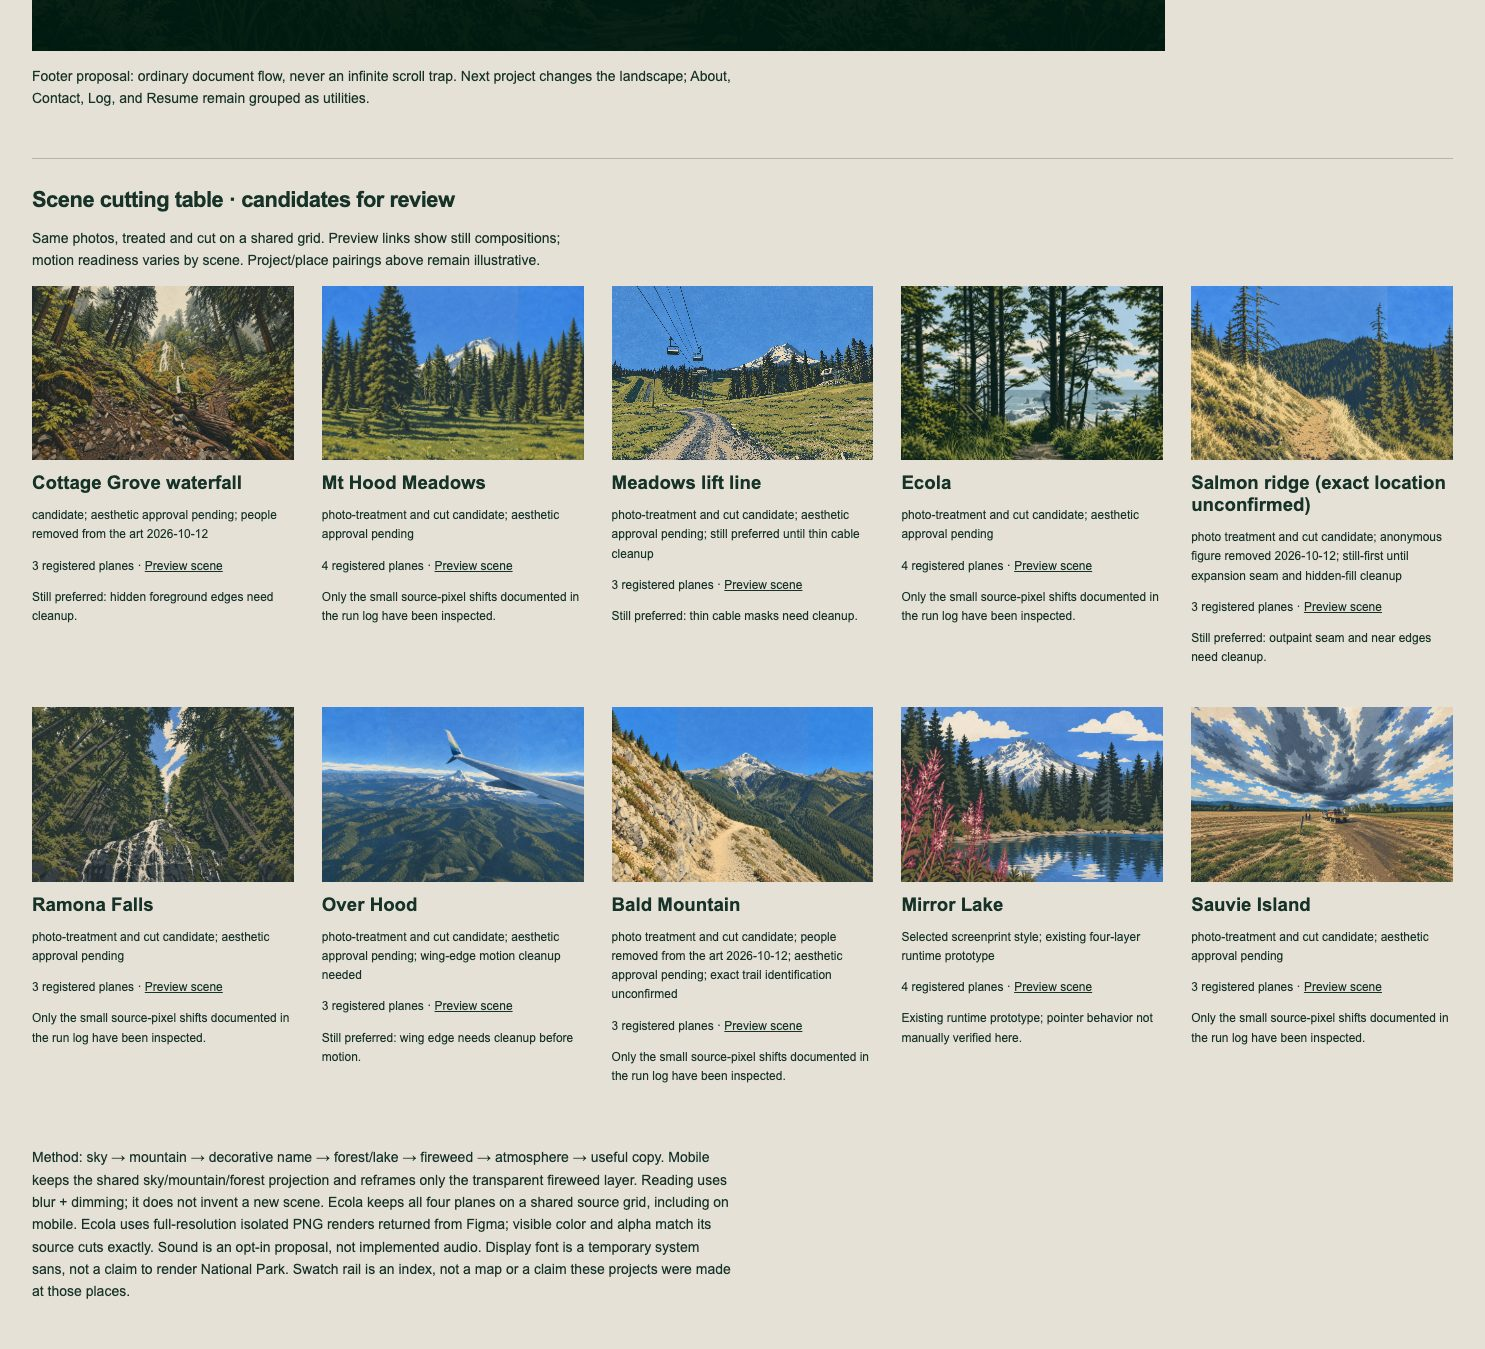
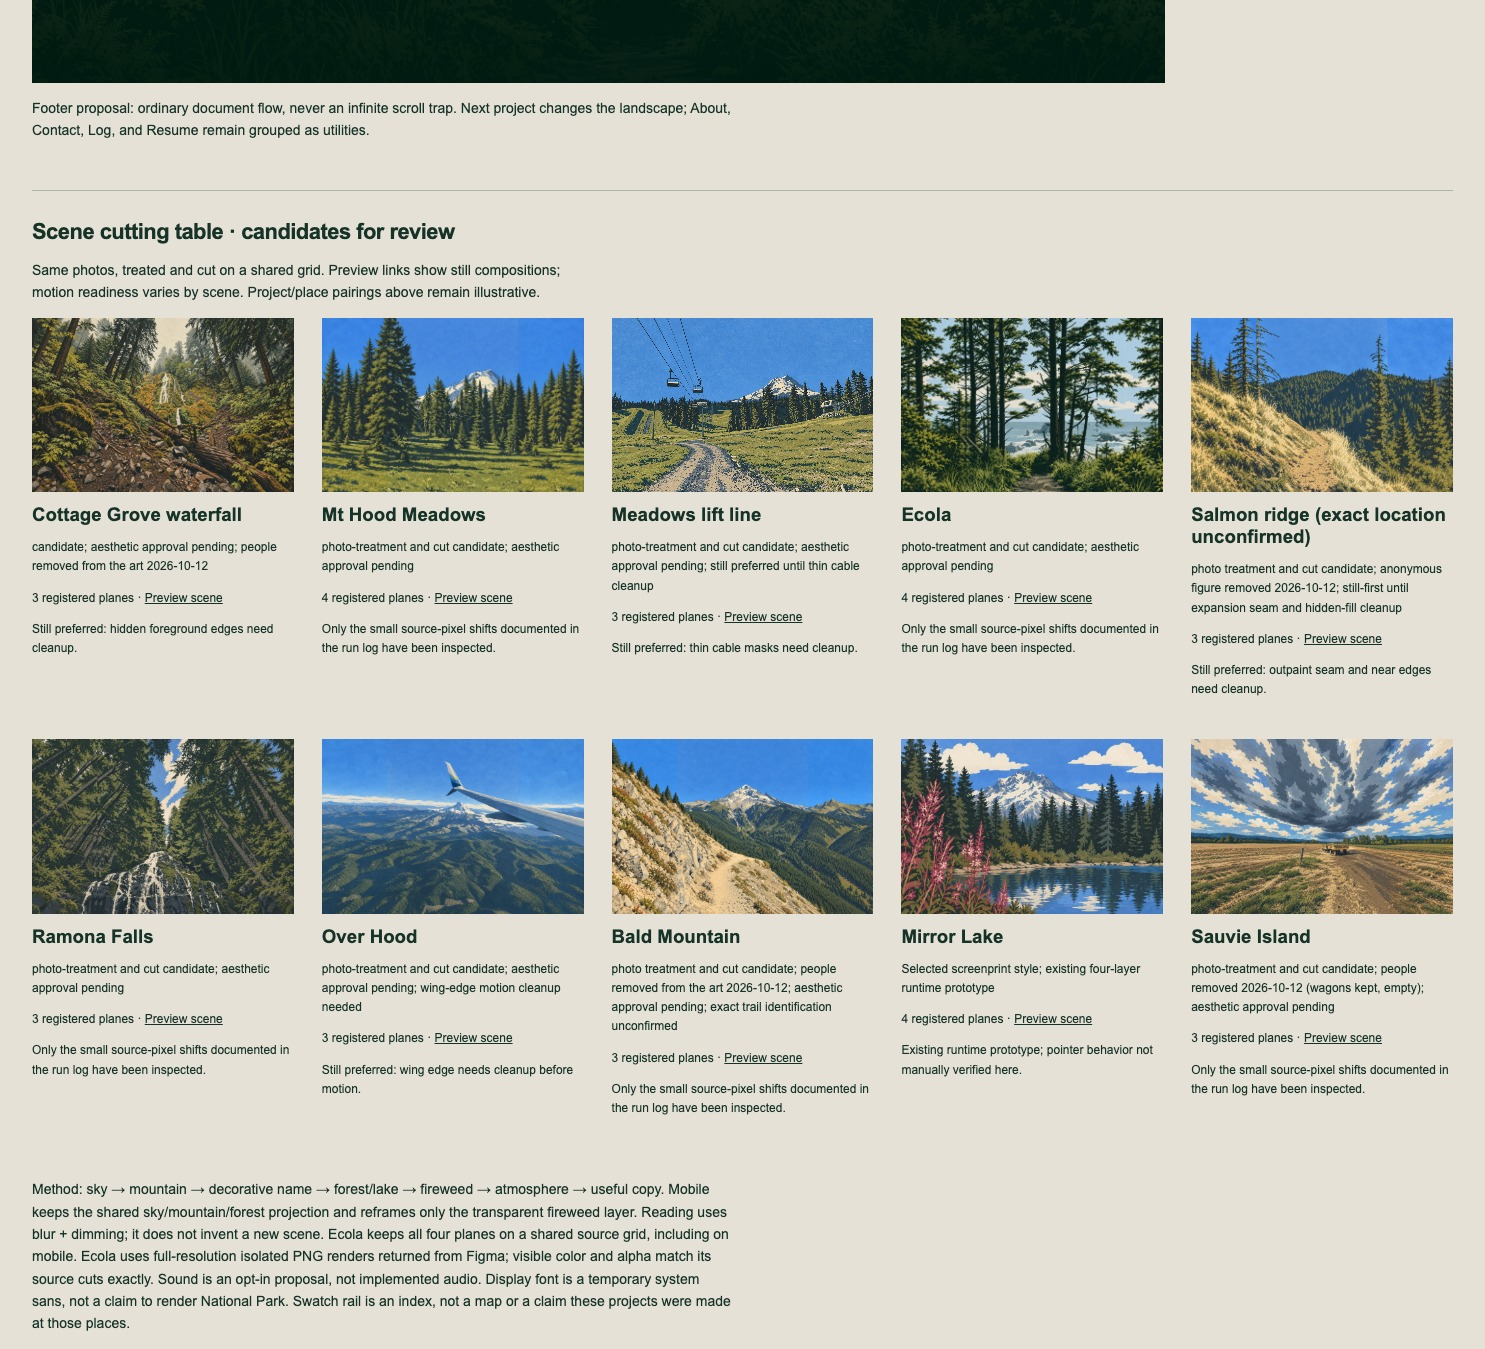
Rewrite exploration: people removed from Sauvie (wagons kept, empty); re-cut, Figma round trip exact; catalog and sheets merged

diff --git a/docs/rewrite/prototypes/tools/cut-sauvie.py b/docs/rewrite/prototypes/tools/cut-sauvie.py
@@ -3,12 +3,65 @@
 
 Run: python3 tools/cut-sauvie.py public/gen/layers/sauvie
 Restack equality validates color/coverage, not segmentation quality.
+
+People removal (2026-10-12), two steps that need numpy + scipy (use `uv run --with pillow --with numpy --with scipy`):
+
+  --rebuild-master <backup-dir>
+      The raw image edit nofigure-raw-v1.png (whole-frame re-render, riders and standing figures removed) is
+      blended into the locked portrait only inside a feathered patch around the former people; everything outside the
+      patch stays pixel-identical to <backup-dir>/master.png (the pre-removal portrait, kept outside the repo).
+      The new portrait is pasted into the SAME center bounds of <backup-dir>/master-wide.png (outpainted sides
+      untouched) and saved as master.png / master-wide.png.
+
+  (no flag)
+      Cut planes from master-wide.png. Mattes: land-raw.png and near-raw.png (made from the pre-removal wide master)
+      are kept everywhere except the former-people zone, where mattes regenerated from the people-free wide master
+      (land-raw-v2.png, near-raw-v2.png) are used if present.
 """
 from pathlib import Path
 from PIL import Image, ImageChops, ImageFilter, ImageOps, ImageStat
 import hashlib, json, subprocess, sys
 
-p=Path(sys.argv[1]); master=Image.open(p/'master-wide.png').convert('RGB'); size=master.size; w,h=size
+p=Path(sys.argv[1]); BOUNDS=(543,0,1629,1448)
+# Former-people zone in wide-master source px: the portrait patch bbox (x 332-808, y 766-1014) shifted by the
+# 543 px center offset, plus margin (riders on the wagons and the standing group left of them).
+ZONE=(850,730,1400,1040)
+
+if '--rebuild-master' in sys.argv:
+    import numpy as np
+    from scipy import ndimage as ndi
+    b4=Path(sys.argv[sys.argv.index('--rebuild-master')+1])
+    A=Image.open(b4/'master.png').convert('RGB'); B=Image.open(p/'nofigure-raw-v1.png').convert('RGB'); OW=Image.open(b4/'master-wide.png').convert('RGB')
+    assert A.size==B.size==(1086,1448)
+    assert np.abs(np.array(OW.crop(BOUNDS)).astype(int)-np.array(A).astype(int)).max()==0
+    a=np.array(A).astype(float); b=np.array(B).astype(float); d=np.abs(a-b).mean(2)
+    # The edit re-renders the whole frame (ground grain drifts), so the change map is only trusted for the two
+    # components that sit where the people were: riders on the wagons and the standing group.
+    m=ndi.binary_opening(ndi.uniform_filter(d,25)>22,iterations=3)
+    lab,n=ndi.label(m); keep=np.zeros_like(m)
+    for i,sl in enumerate(ndi.find_objects(lab),1):
+        ys,xs=sl; size=int((lab[sl]==i).sum())
+        if size>=1000 and 380<=xs.start and xs.stop<=760 and 820<=ys.start and ys.stop<=960: keep|=(lab==i)
+    assert keep.any()
+    m=ndi.binary_fill_holes(ndi.binary_dilation(keep,iterations=28)); mf=ndi.gaussian_filter(m.astype(float),9)
+    out=np.clip(a*(1-mf[...,None])+b*mf[...,None]+.5,0,255).astype('uint8')
+    new=Image.fromarray(out); new.save(p/'master.png',optimize=True)
+    W=OW.copy(); W.paste(new,BOUNDS[:2]); W.save(p/'master-wide.png',optimize=True)
+    Wn=np.array(W).astype(int); On=np.array(OW).astype(int)
+    ys,xs=np.where(mf>0)
+    exp={'source_size':[2172,1448],'original_portrait_bounds':list(BOUNDS),
+      'center_max_diff':int(np.abs(Wn[:,543:1629]-out.astype(int)).max()),
+      'sides_max_diff_vs_previous_wide':int(max(np.abs(Wn[:,:543]-On[:,:543]).max(),np.abs(Wn[:,1629:]-On[:,1629:]).max())),
+      'portrait_outside_patch_max_diff_vs_previous_portrait':int(np.abs(out.astype(int)-np.array(A).astype(int))[mf==0].max()),
+      'patch_pixels':int((mf>0).sum()),'patch_bbox_portrait_px':[int(xs.min()),int(ys.min()),int(xs.max())+1,int(ys.max())+1],
+      'expanded_sides':'AI invented continuation, not documented geography (unchanged by the people removal)',
+      'note':'portrait edited to remove the wagon riders and the standing group (patch region only); wide master rebuilt by pasting it into the same bounds'}
+    (p/'expansion.json').write_text(json.dumps(exp,indent=2)+'\n'); print(exp)
+    assert exp['center_max_diff']==0 and exp['sides_max_diff_vs_previous_wide']==0
+    new.save(p/'master.webp',quality=92,method=6); W.resize((1536,1024),Image.Resampling.LANCZOS).save(p/'master-wide.webp',quality=92,method=6)
+    sys.exit(0)
+
+master=Image.open(p/'master-wide.png').convert('RGB'); size=master.size; w,h=size
 
 def align(name):
     im=Image.open(p/name).convert('RGB')
@@ -20,7 +73,13 @@ def matte(name):
     subprocess.run([sys.executable,str(Path(__file__).with_name('key.py')),str(p/name),str(out),'--erode','0'],check=True)
     return Image.open(out).getchannel('A').resize(size,Image.Resampling.LANCZOS).point(lambda x:255 if x>=128 else 0)
 
-land=matte('land-raw.png'); near=matte('near-raw.png')
+def zoned(name):
+    # previously validated matte everywhere; the matte regenerated from the people-free wide only inside ZONE
+    base=matte(name); v2=name.replace('-raw.png','-raw-v2.png')
+    if (p/v2).exists(): base.paste(matte(v2).crop(ZONE),ZONE[:2])
+    return base
+
+land=zoned('land-raw.png'); near=zoned('near-raw.png')
 # Bottom land must cover the nearest bank at rest; neither mask is a trimmed sprite.
 land=ImageChops.lighter(land,near)
 clean=align('clean.png'); sky_fill=align('sky-raw.png')
@@ -58,9 +117,9 @@ for sign,label in [(-1,'left'),(1,'right')]:
     prev.convert('RGB').save(p/f'motion-{label}.jpg',quality=95)
 ImageOps.fit(rest.convert('RGB'),(1440,900),centering=(.5,.5)).save(p/'crop-desktop.jpg',quality=95)
 ImageOps.fit(rest.convert('RGB'),(390,844),centering=(.53,.5)).save(p/'crop-mobile.jpg',quality=95)
-result={'status':'candidate; aesthetic selection pending','source_size':list(size),'web_size':[1536,1024],
+result={'status':'candidate; people removed 2026-10-12; aesthetic selection pending','source_size':list(size),'web_size':[1536,1024],
     'restack_max_difference':max(v[1] for v in diff.getextrema()),'restack_mean_difference':sum(ImageStat.Stat(diff).mean)/3,
     'motion_test_source_px':{'sky':0,'far':2,'near':5},
     'layers':[{'name':name,'sha256':hashlib.sha256((p/f'{name}.png').read_bytes()).hexdigest(),'alpha_extrema':list(im.getchannel('A').getextrema())} for name,im in layers],
-    'limitations':['AI mattes may drift at fine skyline and grass edges; inspect isolated and movement proofs','Sky/clouds are one plane; wagons/people stay attached to farmland','Large parallax needs additional hidden-fill review','Overscan/viewport clipping required to hide translated outer image edges']}
+    'limitations':['AI mattes may drift at fine skyline and grass edges; inspect isolated and movement proofs','Sky/clouds are one plane; the empty wagons stay attached to farmland','Large parallax needs additional hidden-fill review','Overscan/viewport clipping required to hide translated outer image edges']}
 (p/'cut-check.json').write_text(json.dumps(result,indent=2)+'\n'); print(json.dumps(result));assert result['restack_max_difference']==0

diff --git a/docs/rewrite/scene-runs/sauvie.md b/docs/rewrite/scene-runs/sauvie.md
@@ -1,6 +1,8 @@
 # Sauvie scene run — 2026-10-12
 
-Status: local three-plane cut candidate and Figma placement complete; exported round trip blocked. Aesthetic approval pending.
+Status: local three-plane cut candidate, Figma placement and native round trip complete; people removed from the art 2026-10-12 (see the last section; the hay wagons stay, empty). Aesthetic approval pending.
+
+Note: the sections from Inputs through Parent native export verification record the original cut (with people in the art) and are kept as history; the original master and expansion prompts, and the wording about people in them, were superseded by the people-removal section at the end. Current files are the people-free ones.
 
 ## Inputs and invariants
 
@@ -59,7 +61,7 @@ Artifacts: `scene.json`, `figma.json`, `figma-upload.json`, `figma-roundtrip.jso
 ## Limits for composition
 
 - The treated cloud contours and ground details differ from the photograph; this remains an AI style-treatment candidate, not a literal deterministic shader or approved final art.
-- Sky/clouds remain one plane; wagons/people remain grounded with farmland. Separate cloud depth or moving wagons would require intentional recutting.
+- Sky/clouds remain one plane; the (now empty) wagons remain grounded with farmland. Separate cloud depth or moving wagons would require intentional recutting.
 - Overscan and viewport clipping must hide the translated outer edges. Use small motion bounds above until larger disocclusion is reviewed.
 - Mobile motion remains proposed: gentle entry/release settle and small scroll depth, with a still reduced-motion presentation. No hover, orientation-permission or swipe-only navigation assumptions.
 - No project/location pairing is asserted. No production runtime changes, commits, push or deployment.
@@ -67,3 +69,33 @@ Artifacts: `scene.json`, `figma.json`, `figma-upload.json`, `figma-roundtrip.jso
 ## Parent native export verification
 
 Native isolated PNG renders recovered the Figma round trip after the empty202 download response. All three planes match source dimensions, alpha and visible RGB exactly; native restack maxdiff0. WebPs now derive from those renders. See `figma-roundtrip.json`. This changes export provenance, not visual or motion approval.
+
+
+## People removal — 2026-10-12
+
+Decision (Cello, verbatim): "remove the sauvie people too". The repo is public; people never appear in the public art. The treatment held a group of riders on two coupled hay wagons (center-right, heads rising above the tree line) and a standing group of three beside the fence post, left of the wagons. All of them were **removed** (not shrunk). The two wagons are **kept, empty**: with the riders gone the wagon beds, side rails, wheels and hitch still read as parked farm wagons on the track, so no further change was needed. The small yellow vehicle on the far horizon is not a person and stays.
+
+### Prompt 1 — people removal on the locked portrait master (codex-images edits, ref: master.png, 1 call after one transport retry, output 1086 × 1448 `nofigure-raw-v1.png`)
+
+Use case: precise-object-edit. Edit target image 1 is a finished screenprint-style landscape illustration of a stormy sky over a ploughed field, a dirt track, a leaning wooden fence post and a hay wagon train. Remove ALL people from the picture: (1) every passenger sitting on the two hay wagons at center-right, so the wagons are left completely empty (bare wooden wagon beds with their side rails, wheels and hitch, no passengers, no bales added), and (2) the small group of standing figures on the field just left of the wagons, between the fence post and the wagons, including their shadows. Fill ONLY the space those people occupied by naturally continuing the surroundings: the wagon beds and rails continue empty, the ploughed ochre field and muted brown earth continue behind them, with the same flat screenprint inks, same paper grain, same irregular solid edges and same lighting direction. The result must contain no person, no silhouette, no ghost outline, no new people, no animals, no new objects, no text. The hay wagons themselves, the small yellow vehicle on the far horizon, the fence post, the grass, the track, the trees, the hills and the entire storm sky must stay exactly as they are: same aspect ratio 3:4, same crop, same pixel positions.
+
+Result: people gone, wagons empty, no ghosts, no new people or text. The edit re-rendered the whole frame (mean abs RGB diff vs the locked portrait 8.9/255 over the frame, 5.2 in the top half; ground grain differs everywhere), so it is **not** used as the master. `tools/cut-sauvie.py --rebuild-master <backup-dir>` blends it into the locked portrait only inside a feathered patch: the change map (25 px smoothed diff > 22) is trusted only for the two components that sit where the people were (riders: about x 539-744, y 830-904; standing group: about x 396-457, y 873-950), dilated 28 px and feathered with a 9 px Gaussian (87,151 px, bbox x 332-808, y 766-1014 in portrait px, about 5.6% of the portrait). Outside the patch the new portrait is pixel-identical to the previous one (max diff **0**). Full-size and 2x inspection of the patch (both former positions and seams): no people, no ghost silhouettes, no text, seams invisible; the wagon beds, rails and wheels continue cleanly and the field behind them continues.
+
+### Wide master rebuild
+
+New portrait pasted into the same bounds [543, 0, 1629, 1448] of the previous wide master. Center crop vs new portrait max diff **0**; outpainted sides (x < 543, x >= 1629) vs previous wide master max diff **0**. The invented sides are unchanged. Sauvie does have an expansion, so this step applied. The pre-removal masters and planes are kept outside the repo; the pre-removal WebPs remain in git history.
+
+### Prompt 2 — land matte on the people-free wide (ref: 1536 × 1024 resize of the new master-wide.png, output 1536 × 1024 `land-raw-v2.png`)
+
+CUTTING MATTE on the exact source grid of this landscape 3:2 Sauvie screenprint. Keep ALL land from its real irregular skyline downward: distant hills, tree line, fields, dirt track, the two empty hay wagons, fence post, grass and foreground earth. Replace ONLY every sky and cloud pixel above the actual hills/tree tops with perfectly flat #FF00FF magenta, no grain in magenta. Preserve exact original irregular skyline silhouette, positions, scale and all source land art. There are no people in this picture and none may be added. No redraw, zoom, crop, or new objects; same canvas.
+
+The old land matte carried the riders' heads as skyline bumps over the tree line, so it was regenerated. The new matte is used only inside the former-people zone [850, 730, 1400, 1040] (wide source px); the previously inspected matte `land-raw.png` is kept elsewhere. The near matte (`near-raw.png`: bank and fence post only), the hidden-ground plate `clean.png` and the sky fill `sky-raw.png` carried no people and are reused (viewed to confirm).
+
+### Cut and checks
+
+- Restack vs new master-wide: max diff **0**, mean **0.0**. Tested motion unchanged: far ±2, near ±5 source px; isolated alphas, motion-left/right, post-motion-detail (regenerated, the old one still showed the standing group), crop-desktop (1440 × 900) and crop-mobile (390 × 844, center .53) re-inspected: empty wagons, no head or figure remnant in any plane, no gap at the former positions.
+- Changed vs the previous planes: sky 0 alpha px, 18,266 visible RGB px (bbox x 858-1421, y 785-867, hidden-sky continuation under the old riders' heads); far 880 alpha px, 40,905 RGB px (x 877-1399, y 794-990); near 0 alpha px, 2,881 RGB px (x 901-1024, y 896-996, the post's surroundings).
[1 lines of base64/hex data omitted]
+- Figma (file BHwjRNFmaMra4MUhsSwUXC, Scenes page 1:48): fills replaced on the existing rectangles master-wide 19:10, portrait 19:20, sky 19:14, far 19:15, near 19:16 (raw PNG, image/png, fresh single-use URLs one at a time, all HTTP 200; new image hashes in `figma-upload.json`). Caption 19:5 updated. Native isolated renders (get_screenshot contentsOnly, maxDimension = source long edge, URL download worked): sky/far/near 2172 × 1448, alpha diff 0, visible RGB diff 0 vs local PNGs, native restack vs master diff 0; master-wide and portrait renders RGB diff 0. Section screenshot (19:3) inspected: empty wagons, no people. WebPs re-derived from the native PNGs by `tools/verify-figma-cuts.py sauvie`; master.webp / master-wide.webp re-encoded by the rebuild step.
+- Before/after review: `people-removed-review.jpg` (local, git-ignored; its left half still shows the people, so do not publish it).
+- Review sheets in `storyboards/arrival-v3/` regenerated 2026-10-12 from the people-free masters (see STORYBOARD.md).

diff --git a/docs/rewrite/STORYBOARD.md b/docs/rewrite/STORYBOARD.md
@@ -109,14 +109,14 @@ Eight individual agents completed Meadows, Ramona, Over Hood, Sauvie, Moss Falls
 | Ecola | 4 | Only far1/mid4/near6 source px inspected; larger travel needs fill cleanup |
 | Meadows | 4 | Only far1/mid3/near5 source px inspected |
 | Ramona | 3 | Only forest2/cascade4 source px inspected; waterfall/basalt remain together |
-| Sauvie | 3 | Only land2/foreground5 source px inspected; people/wagons stay with land |
+| Sauvie | 3 | Only land2/foreground5 source px inspected; the hay wagons (now empty) stay with land |
 | Bald Mountain | 3 | Only mountain1/trail4 source px inspected; exact trail unconfirmed |
 | Over Hood | 3 | Still preferred: wing edge ghost at5sourcepx |
 | Moss Falls | 3 | Still preferred: foreground hidden-fill halos |
 | Meadows Lift | 3 | Still preferred: thin cable kinks; mobile mountain crop excludes nearest chairs |
 | Salmon Ridge | 3 | Still preferred: visible outpaint join/edge residue; location/month unconfirmed |
 
-People were removed from Moss Falls, Bald Mountain and Salmon Ridge on 2026-10-12 (Cello's decision, GRILL Q21) by masked edits on the locked portrait masters; all three were re-cut and their native Figma round trips are exact.
+People were removed from Moss Falls, Bald Mountain, Salmon Ridge and Sauvie on 2026-10-12 (Cello's decision, GRILL Q21; Sauvie: "remove the sauvie people too") by masked edits on the locked portrait masters; all four were re-cut and their native Figma round trips are exact. Sauvie's two hay wagons stay, empty.
 
 **Style verdict:** palette and grain broadly relate, but foliage/rock simplification varies; Moss Falls, Bald Mountain and aerial detail can read more photographic than the Mirror Lake anchor. The batch is candidate art, not a finished visual identity. Before expanding production motion, review these side by side and decide whether to refine the treatment or evaluate a deterministic screenprint shader. No actual shader has been selected or implemented.
 
